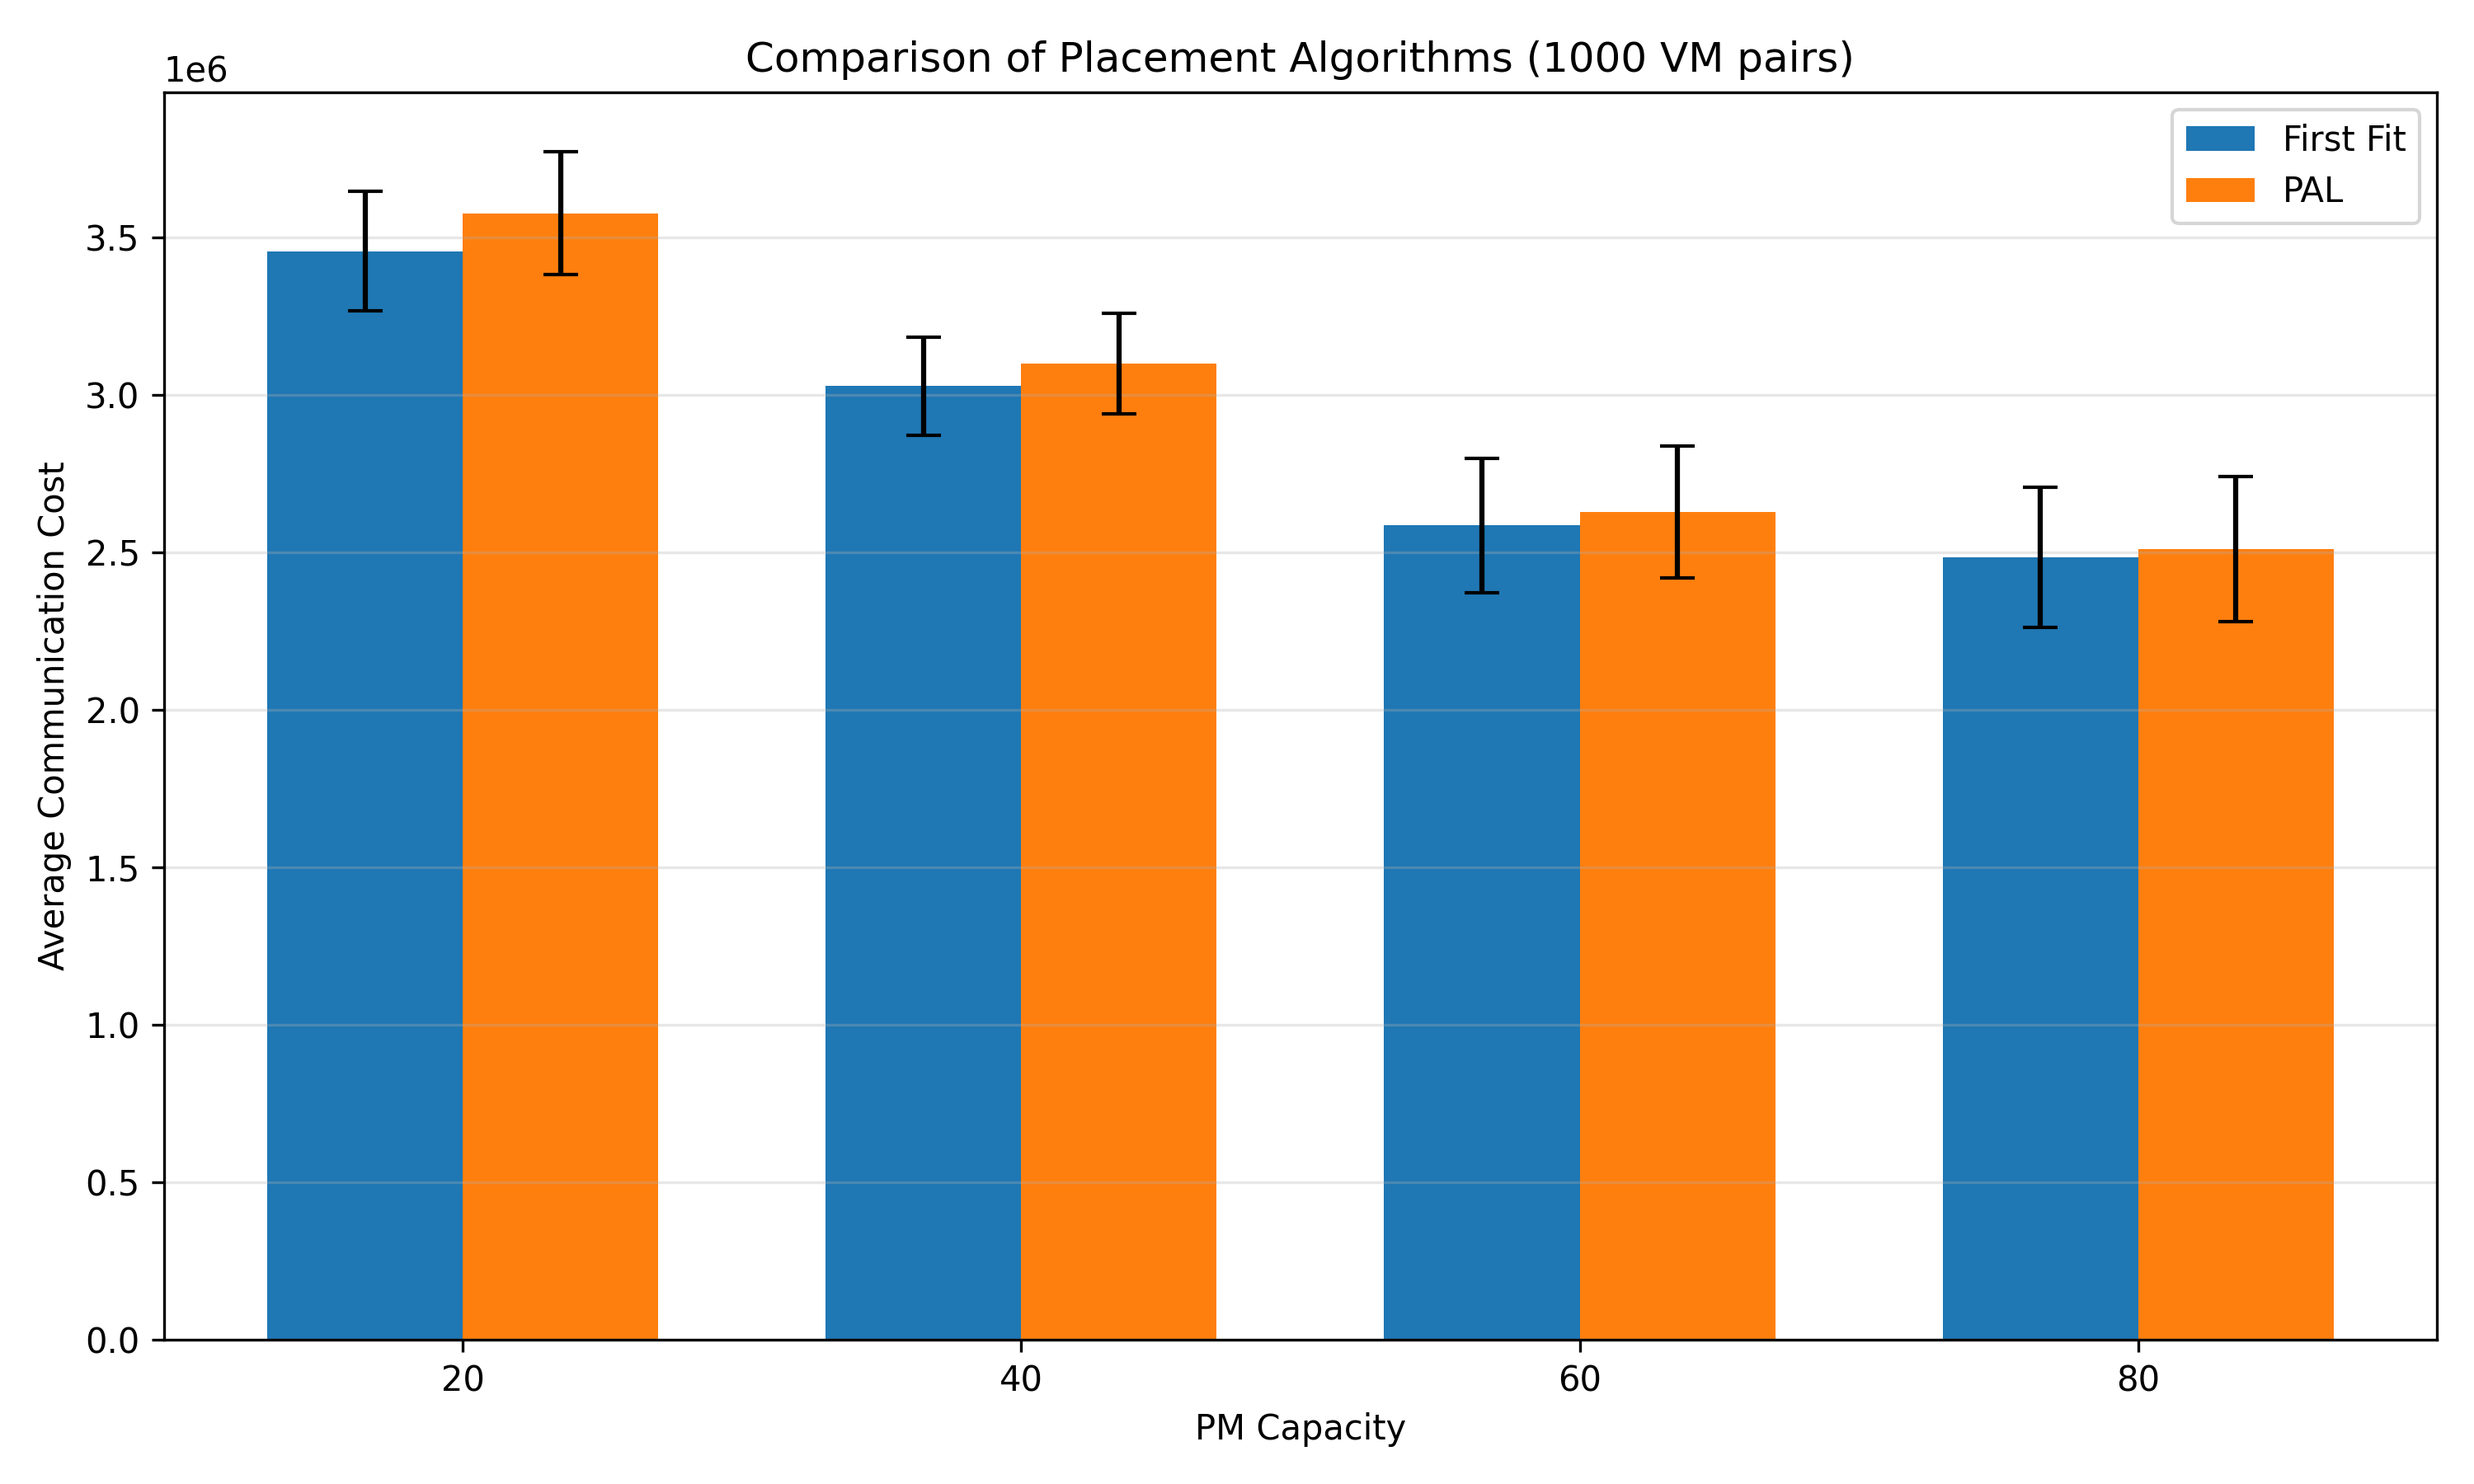
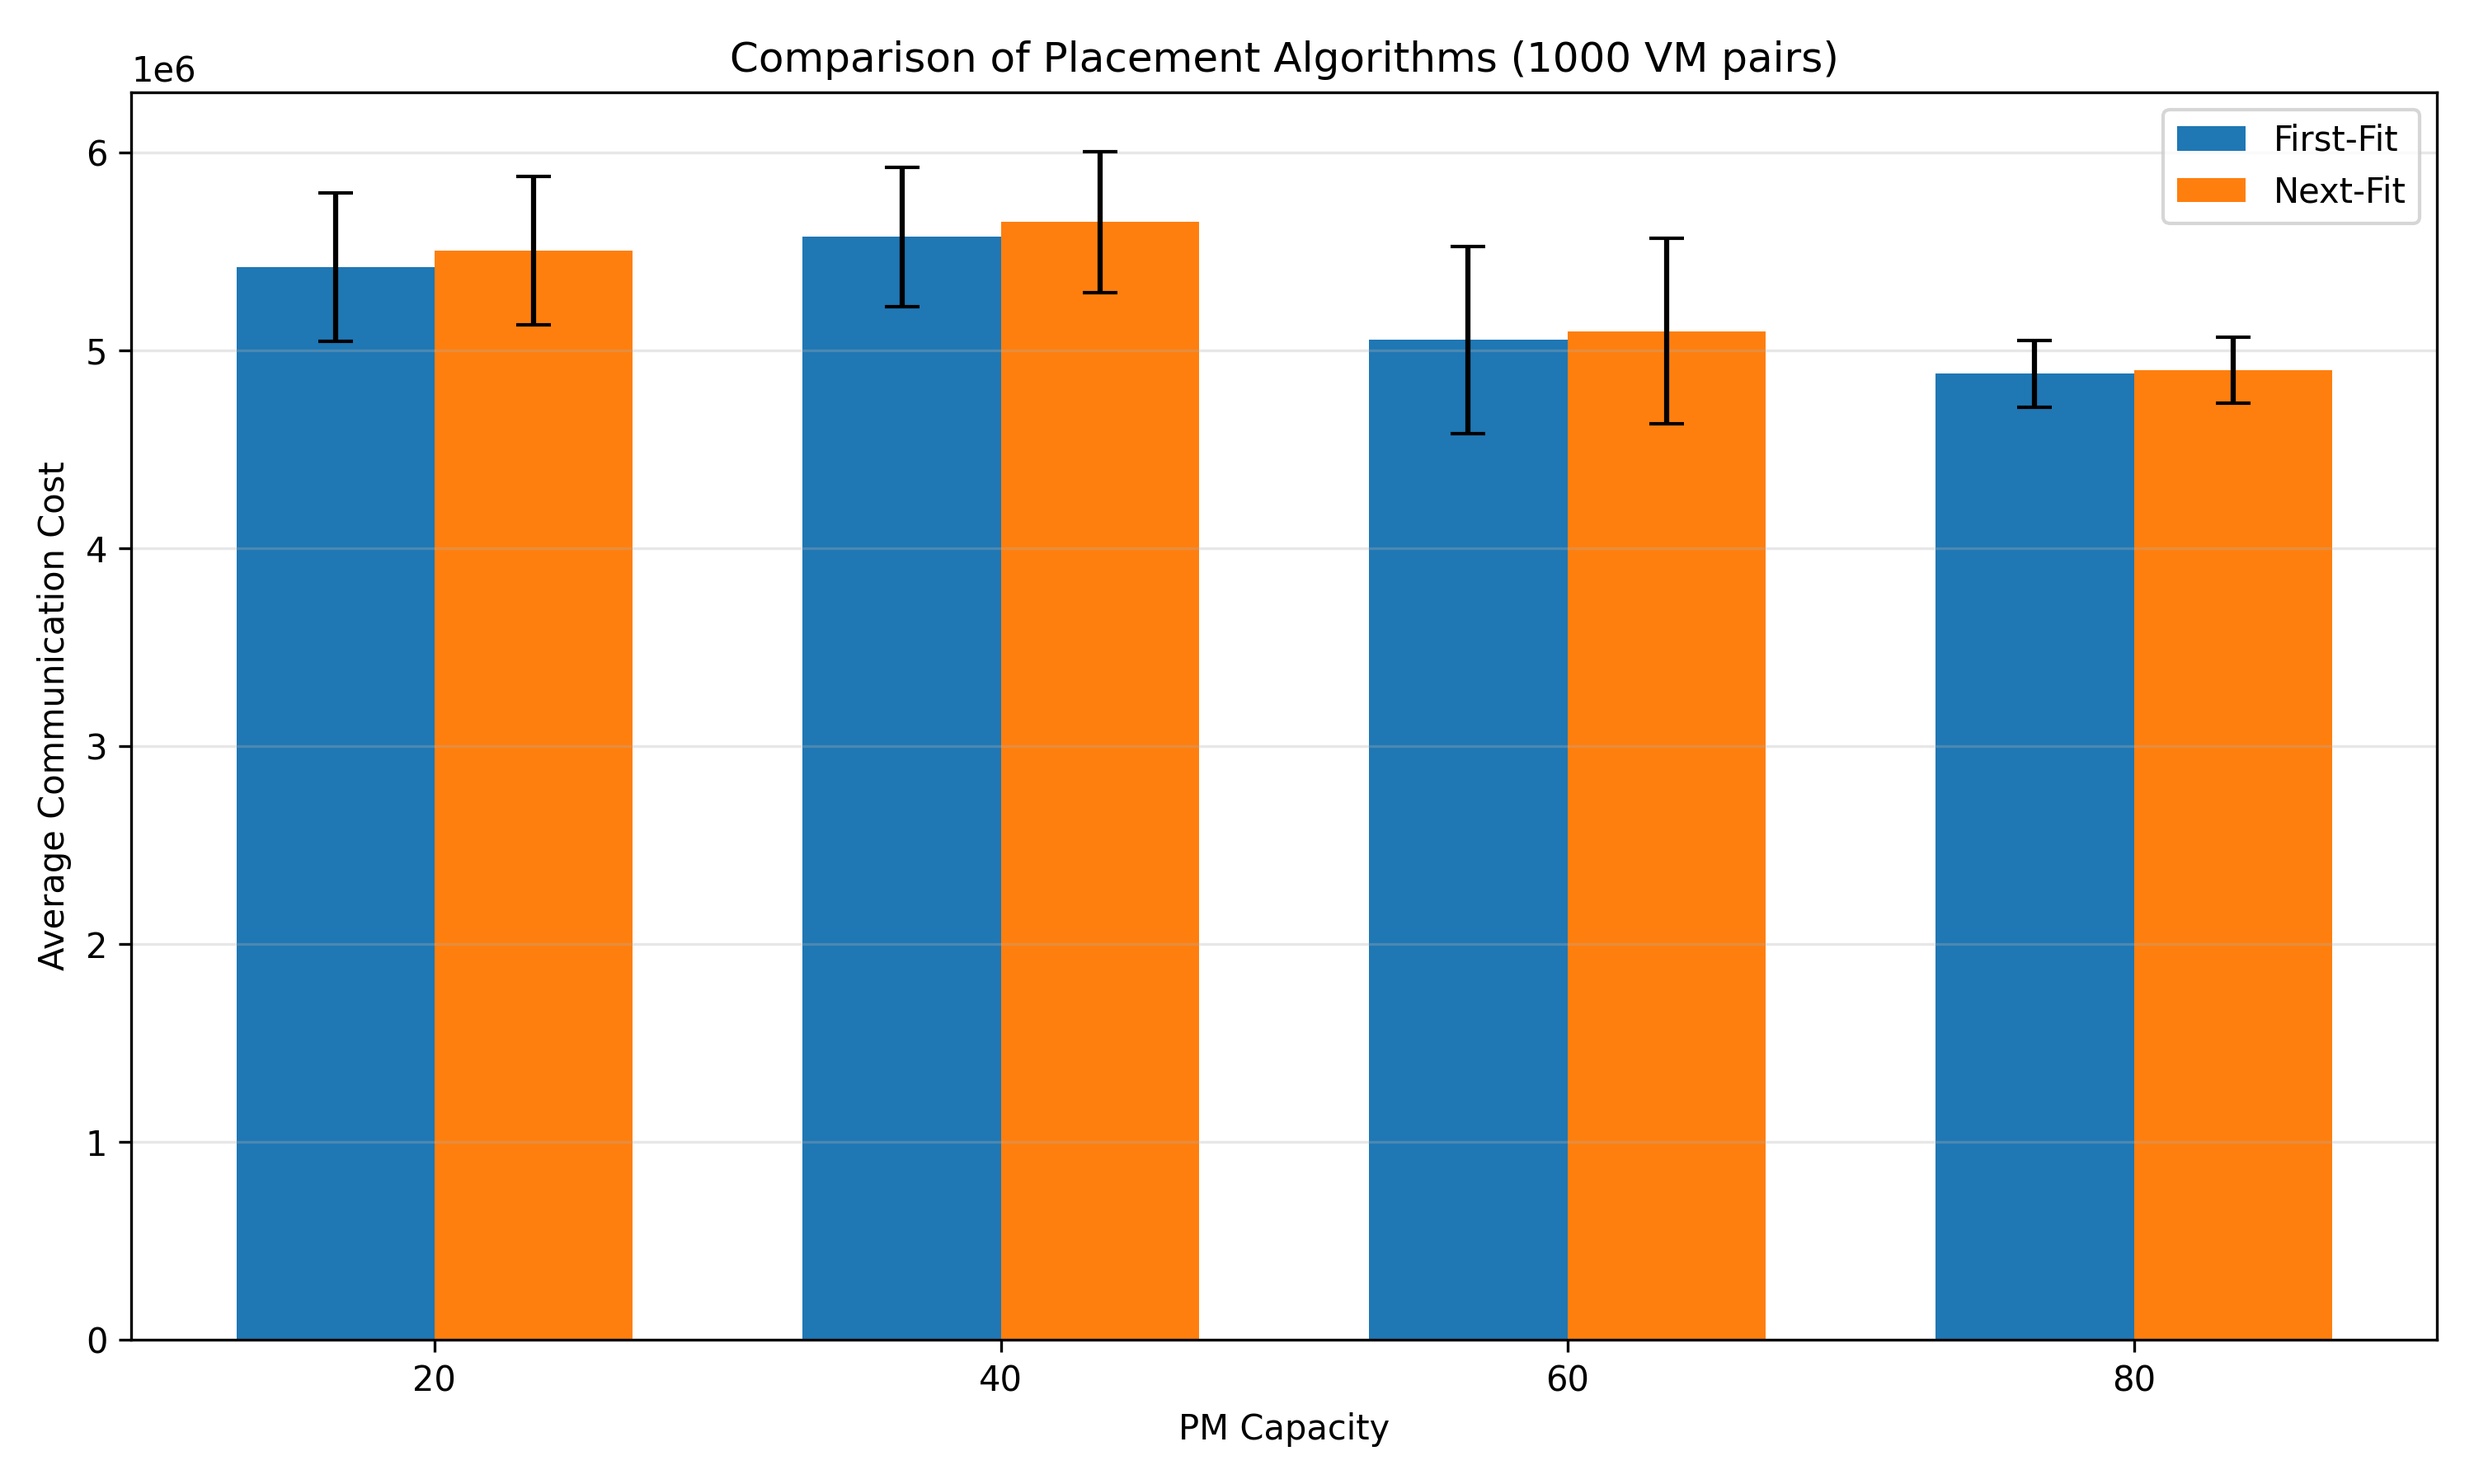
minor changes, FB traffic pattern

diff --git a/src/fat_tree.py b/src/fat_tree.py
@@ -162,7 +162,7 @@ class FatTree:
             if (isinstance(one, CoreSwitch) and isinstance(two, AggregateSwitch)) or (isinstance(one, AggregateSwitch) and isinstance(two, CoreSwitch)):
                 if isinstance(one, CoreSwitch):
                     return 1 if two.id in one.aggr_edges else 3
-                return 1 if one.id in two.core_edges else 3
+                return 1 if one.id in two.aggr_edges else 3
 
             # Core to Edge or Edge to Core
             if (isinstance(one, CoreSwitch) and isinstance(two, EdgeSwitch)) or (isinstance(one, EdgeSwitch) and isinstance(two, CoreSwitch)):
@@ -324,6 +324,36 @@ class FatTree:
             #create a random vm size between lower_bound and upper_bound
             vm_size = random.randint(lower_bound, upper_bound)
             self.vm_pairs[i] = SizedVmPair(first, second, rand_rate, vm_size)
+        
+    def create_sized_vm_pairs_fb(self, lower_bound, upper_bound):
+        # Using random placement for VMs on physical machines
+        for i in range(self.vm_pair_count):
+            flag = True
+            while flag:
+                first = random.randint(self.first_pm, self.last_pm)
+                second = random.randint(self.first_pm, self.last_pm)
+                if first == second:
+                    continue
+                first_pm = self.tree[first]
+                second_pm = self.tree[second]
+                if first_pm.capacity_left <= 0 or second_pm.capacity_left <= 0:
+                    continue
+                flag = False
+
+            first_pm.add_vm()
+            second_pm.add_vm()
+             # Assign traffic rate based on weighted probability
+            prob = random.random()
+            if prob < 0.25:
+                rand_rate = random.randint(0, 299)  # light
+            elif prob < 0.95:
+                rand_rate = random.randint(300, 700)  # medium
+            else:
+                rand_rate = random.randint(701, 1000)  # heavy
+            #rand_rate = random.randint(self.traffic_low, self.traffic_high)
+            #create a random vm size between lower_bound and upper_bound
+            vm_size = random.randint(lower_bound, upper_bound)
+            self.vm_pairs[i] = SizedVmPair(first, second, rand_rate, vm_size)
 
 
     def create_sized_pairs_ff_place(self, lower_bound, upper_bound):
@@ -331,7 +361,7 @@ class FatTree:
         #first call functions that create the VM pairs
         #they are also placed randomly but, they are correctly placed in this function
         
-        self.create_sized_vm_pairs(lower_bound, upper_bound)
+        self.create_sized_vm_pairs_fb(lower_bound, upper_bound)
         self.save_curr_locations()
         pm_slots = []
         for i in range(self.pm_count):
@@ -799,6 +829,13 @@ class FatTree:
         last_vnf = self.vnfs[self.vnf_count - 1]
         #ingress
         cost = self.distance(vm_pair.first_vm_location, first_vnf, True)
+
+        # Intra-VNF chaining: VNF_i to VNF_{i+1}
+        for i in range(self.vnf_count - 1):
+            vnf_src = self.vnfs[i]
+            vnf_dst = self.vnfs[i + 1]
+            cost += self.distance(vnf_src, vnf_dst, True)
+
         #egress 
         cost+= self.distance(last_vnf, vm_pair.second_vm_location, True)
         cost *= vm_pair.traffic_rate

diff --git a/src/app.py b/src/app.py
@@ -16,7 +16,7 @@ class App:
         pal_results = np.empty((4,10))
         for i in range(4):
             for j in range(10):
-                tree = FatTree(k=16, vm_pair_count=500 * (i + 1), vnf_capacity=3, vnf_count=3, pm_capacity=40)
+                tree = FatTree(k=16, vm_pair_count=1000 * (i + 1), vnf_capacity=3, vnf_count=3, pm_capacity=80)
                 tree.set_traffic_range(0, 1000)
                 ff_results[i][j]=tree.create_sized_pairs_ff_place(lower_bound=1, upper_bound=10)
                 pal_results[i][j]=tree.create_pairs_sized_pal_place(lower_bound=1, upper_bound=10)
@@ -38,14 +38,14 @@ class App:
         pal_ci = t_value * pal_std / np.sqrt(10)
 
         # Define x-axis labels
-        x_labels = [500, 1000, 1500, 2000]
+        x_labels = [1000, 2000, 3000, 4000]
         x = np.arange(len(x_labels))  # the label locations
         width = 0.35  # the width of the bars
 
         # Create the plot
         fig, ax = plt.subplots(figsize=(10, 6))
-        rects1 = ax.bar(x - width/2, ff_means, width, yerr=ff_ci, label='First Fit', capsize=5)
-        rects2 = ax.bar(x + width/2, pal_means, width, yerr=pal_ci, label='PAL', capsize=5)
+        rects1 = ax.bar(x - width/2, ff_means, width, yerr=ff_ci, label='First-Fit', capsize=5)
+        rects2 = ax.bar(x + width/2, pal_means, width, yerr=pal_ci, label='Next-Fit', capsize=5)
 
         # Add labels, title, and legend
         ax.set_ylabel('Average Communication Cost')
@@ -103,8 +103,8 @@ class App:
 
         # Create the plot
         fig, ax = plt.subplots(figsize=(10, 6))
-        rects1 = ax.bar(x - width/2, ff_means, width, yerr=ff_ci, label='First Fit', capsize=5)
-        rects2 = ax.bar(x + width/2, pal_means, width, yerr=pal_ci, label='PAL', capsize=5)
+        rects1 = ax.bar(x - width/2, ff_means, width, yerr=ff_ci, label='First-Fit', capsize=5)
+        rects2 = ax.bar(x + width/2, pal_means, width, yerr=pal_ci, label='Next-Fit', capsize=5)
 
         # Add labels, title, and legend
         ax.set_ylabel('Average Communication Cost')
